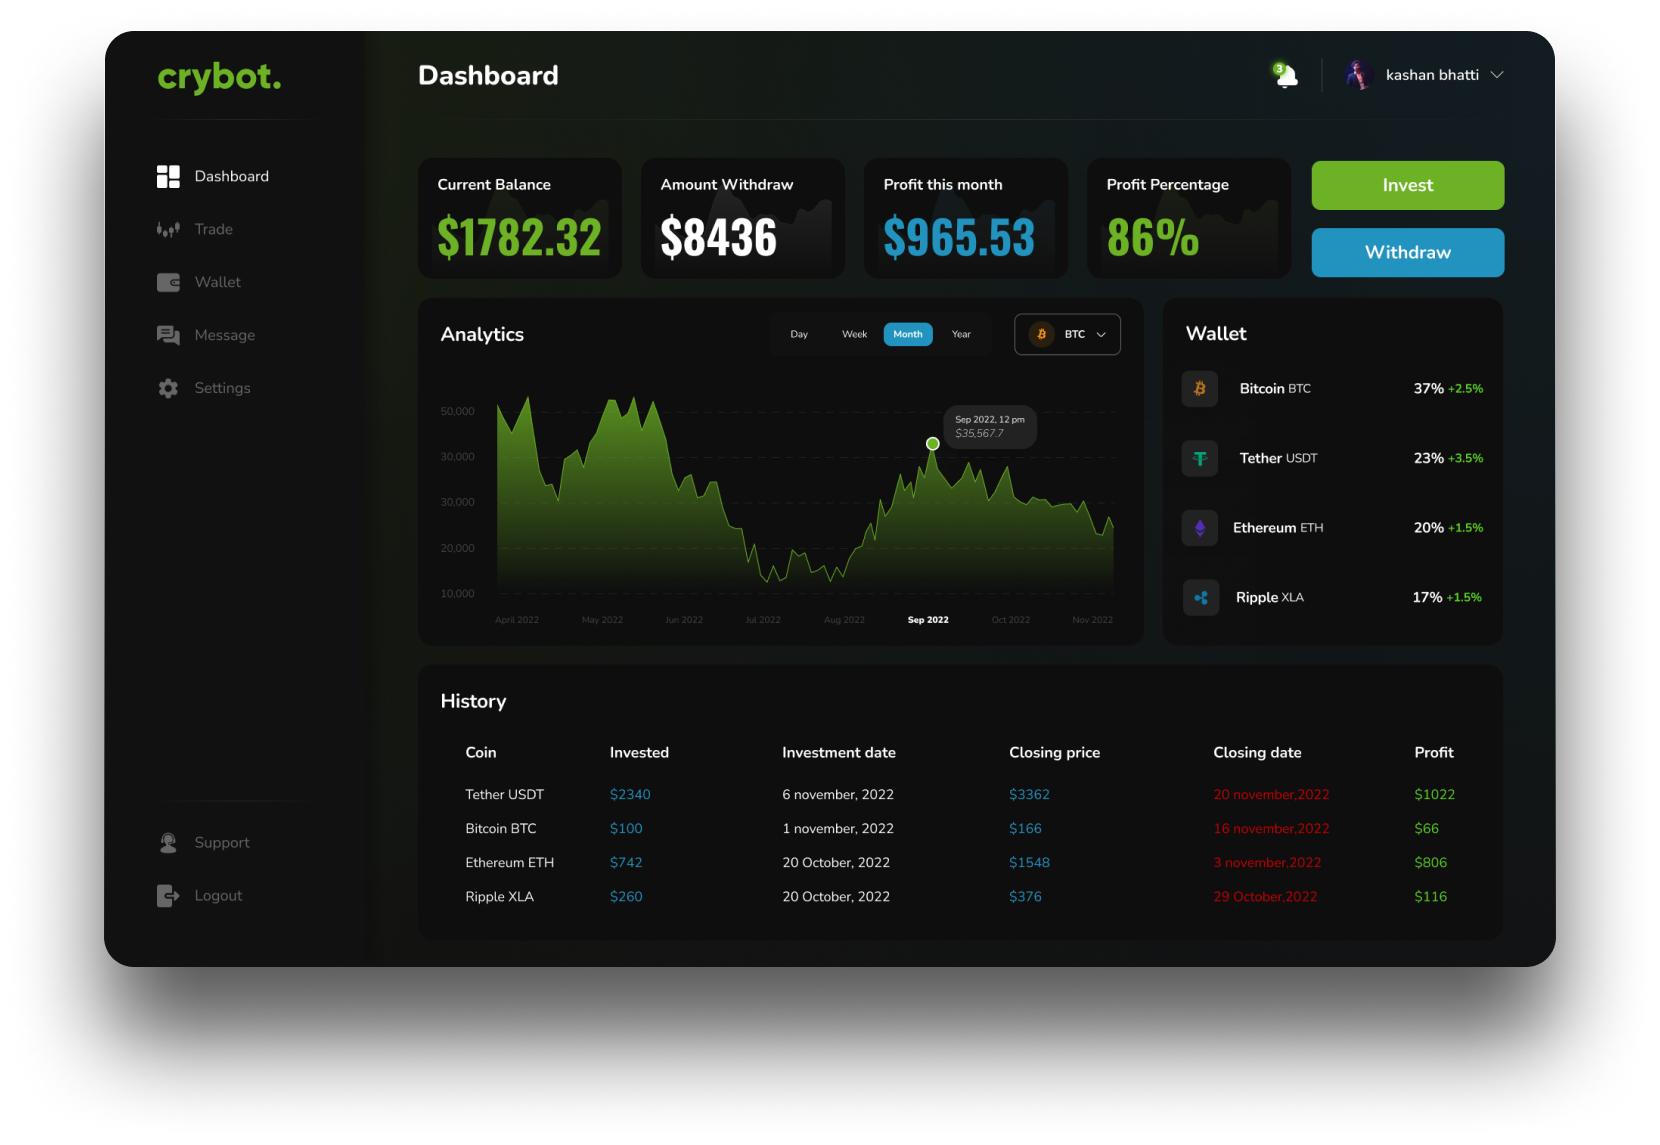
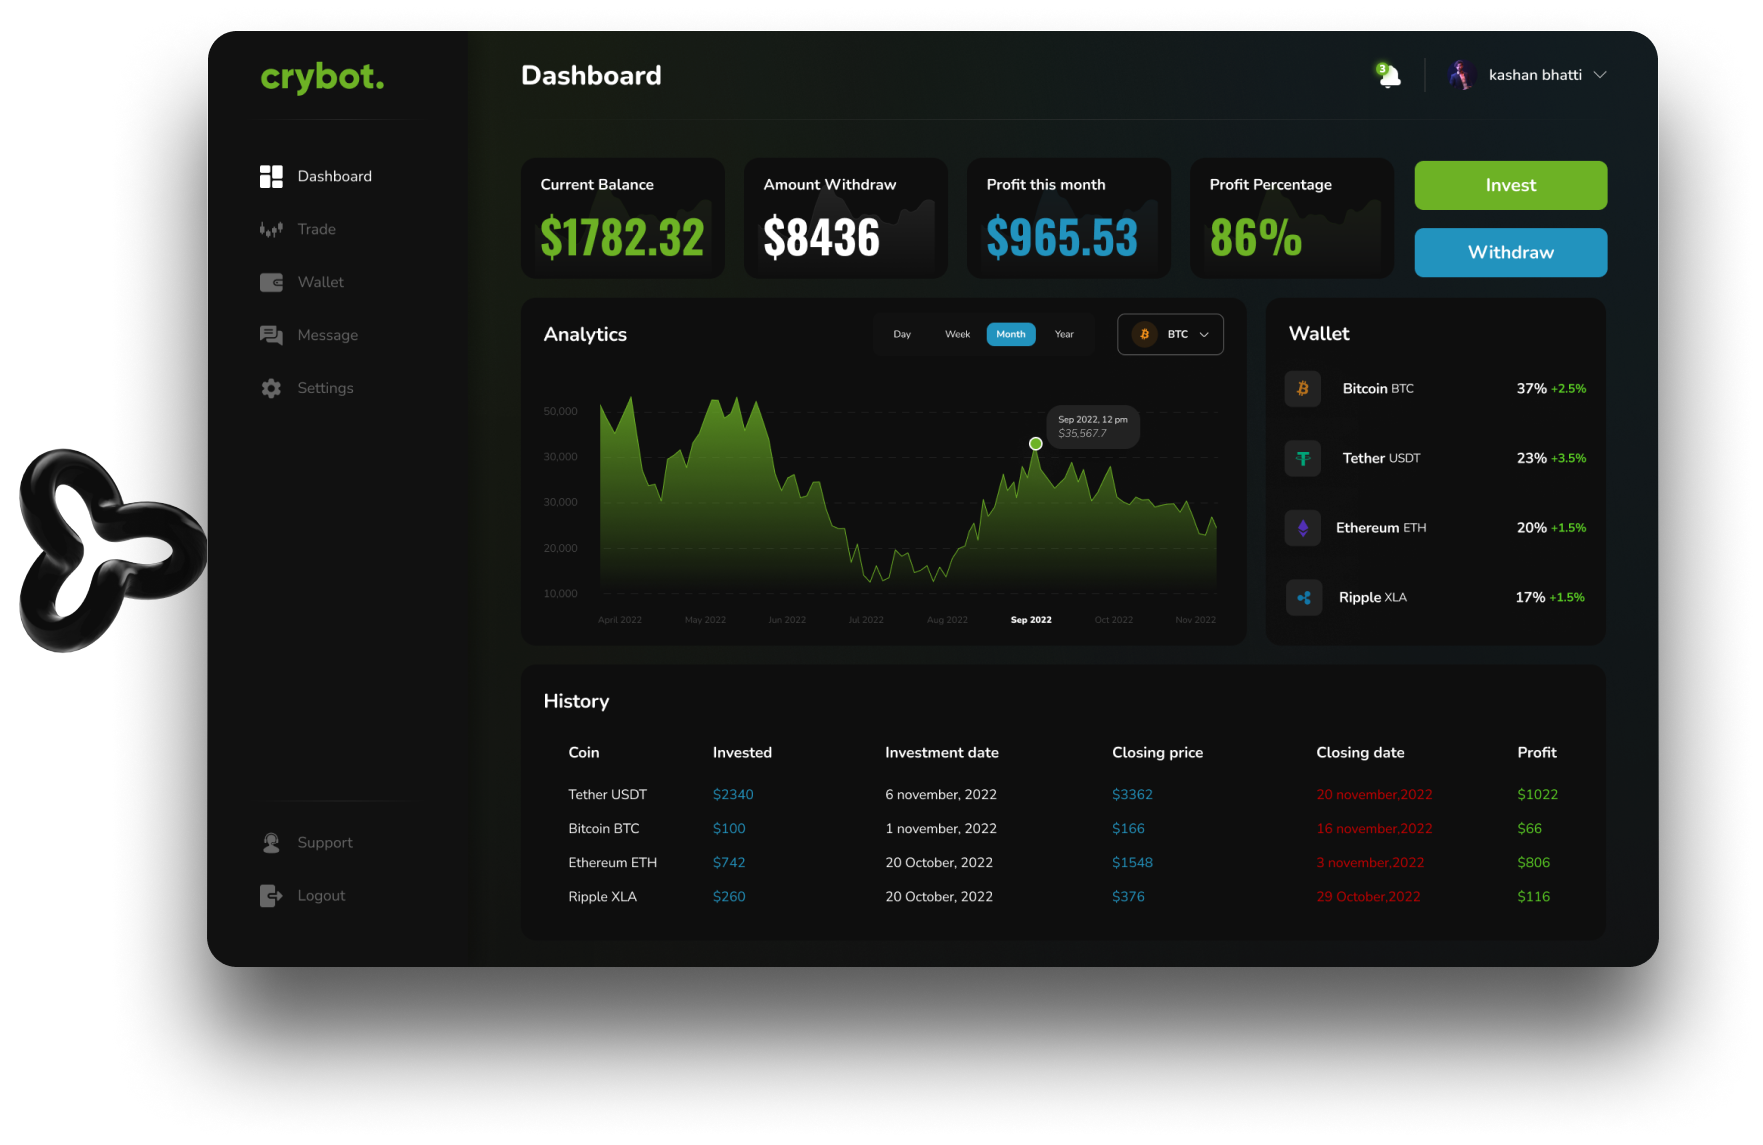
dasboard image

diff --git a/styles/globals.css b/styles/globals.css
@@ -23,11 +23,11 @@ a {
 }
 @font-face {
   font-family: gilory;
-  src: url(../public/Gilroy-Light.otf);
+  src: url(/Gilroy-Light.otf);
 }
 @font-face {
   font-family: gilory-bold;
-  src: url(../public/Gilroy-ExtraBold.otf);
+  src: url(/Gilroy-ExtraBold.otf);
 }
 /************ NavBar Css Start  ***********/
 
@@ -132,7 +132,7 @@ svg.border1 .hl-line {
 /************ Hero Section Css End  ***********/
 /************ Partners Section Css Star  ***********/
 .prtn-bg{
-  background-image: url(../public/prtn-bg.png);
+  background-image: url(/prtn-bg.png);
   background-repeat: no-repeat;
   background-size: cover;
   padding: 90px 0px;
@@ -190,7 +190,7 @@ color: #FFFFFF;
 margin-top: 30px;
 }
 .crd-1{
-  background-image: url(../public/crd1-bg.png);
+  background-image: url(/crd1-bg.png);
   background-repeat: no-repeat;
   background-size: cover;
   padding: 97px 50px 40px 50px;
@@ -213,7 +213,7 @@ color: #FFFFFF;
 opacity: 0.6;
 }
 .crd-2{
-  background-image: url(../public/crd2-bg.png);
+  background-image: url(/crd2-bg.png);
   background-repeat: no-repeat;
   background-size: cover;
   padding: 97px 50px 40px 50px;
@@ -236,7 +236,7 @@ color: #FFFFFF;
 opacity: 0.6;
 }
 .crd-3{
-  background-image: url(../public/crd3-bg.png);
+  background-image: url(/crd3-bg.png);
   background-repeat: no-repeat;
   background-size: cover;
   padding: 97px 50px 40px 50px;

diff --git a/Components/Dashboard.jsx b/Components/Dashboard.jsx
@@ -17,11 +17,8 @@ const Dashboard = () => {
                 <div className="col-md-1"></div>
             </div>
             <div className="row align-items-center">
-                <div className="col-md-1">
-                    <img src="assets/img/shape-4.png" className='img-fluid' alt="" />
-                </div>
-                <div className="col-md-11">
-                    <img src="assets/img/dashboard.png" className='img-fluid' alt="" />
+                <div className="col-md-12">
+                    <img src="assets/img/Dashboard.png" className='img-fluid' alt="" />
                 </div>
             </div>
         </div>  
